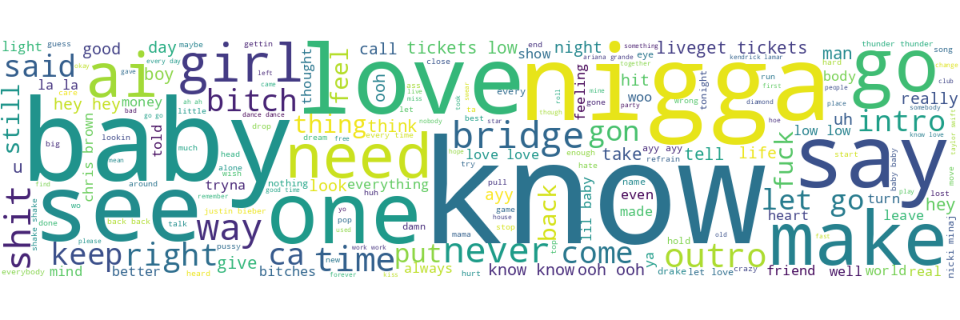
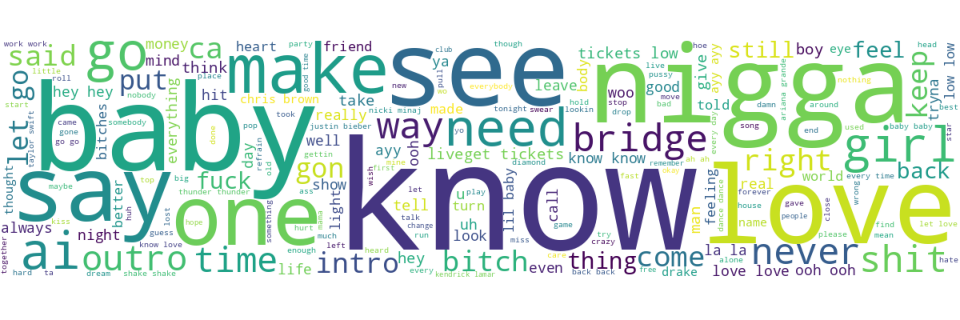
adjust size

diff --git a/src/app.py b/src/app.py
@@ -122,7 +122,7 @@ def generate_page_content(page_title, year):
                 max_font_size=100,                 
                 scale=1,                 
                 random_state=1,                
-                width=1200,
+                width=900,
                 height=200).generate_from_frequencies(string)
             wordcloud.to_file(f'{wordcloud_pic}')     
             return wordcloud_pic
@@ -165,7 +165,7 @@ def generate_page_content(page_title, year):
                                 size=alt.Size('size',legend=None),
                                 color=alt.Color('size',legend=None),
                                 tooltip=['Artist','genres']
-                                ).properties(width=1100,height=310).interactive()
+                                ).properties(width=900,height=310).interactive()
         
         chart1=alt.Chart(df1,title='Debut year distribution').mark_bar().encode(
                         y=alt.Y('count()',scale=alt.Scale(zero=False),title='Artist number'),
@@ -213,9 +213,6 @@ def generate_page_content(page_title, year):
         df['rank_bin10'] = pd.cut(df['Rank'],bins=10,labels=['1-10','11-20','21-30','31-40','41-50','51-60','61-70','71-80','81-90','91-100'])
         df_bin10 = df.groupby(['rank_bin10','Year']).mean().reset_index()
    
-
-
-
         
         if start_year==end_year:
             chart = alt.Chart(df_bin10).mark_bar(interpolate='basis').encode(
